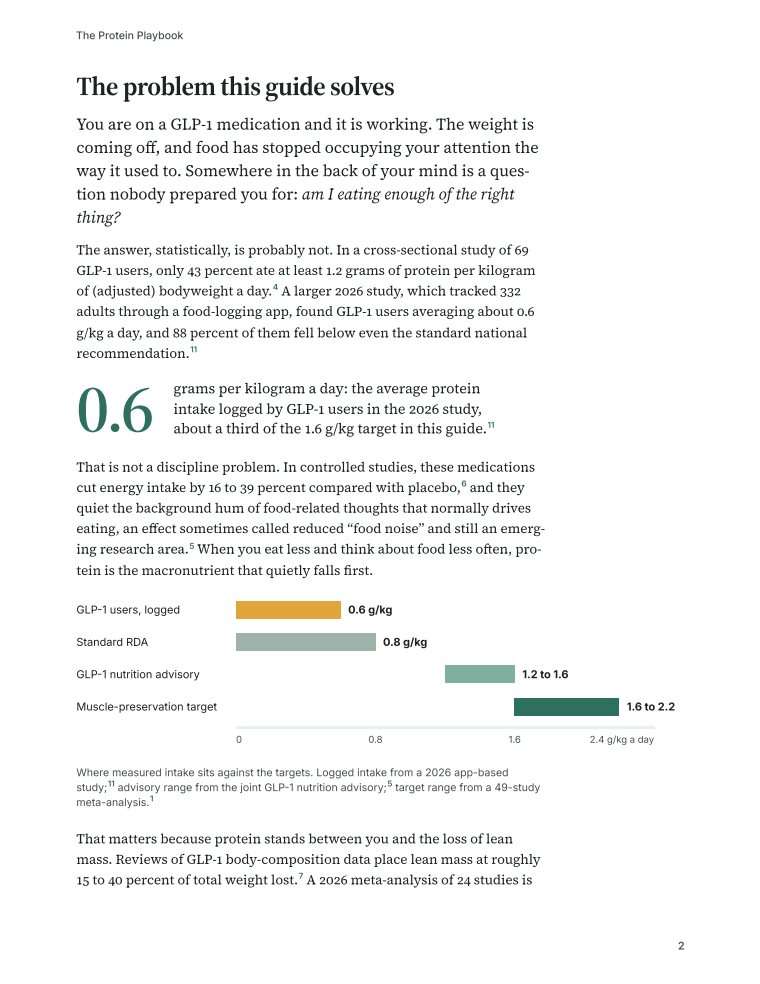
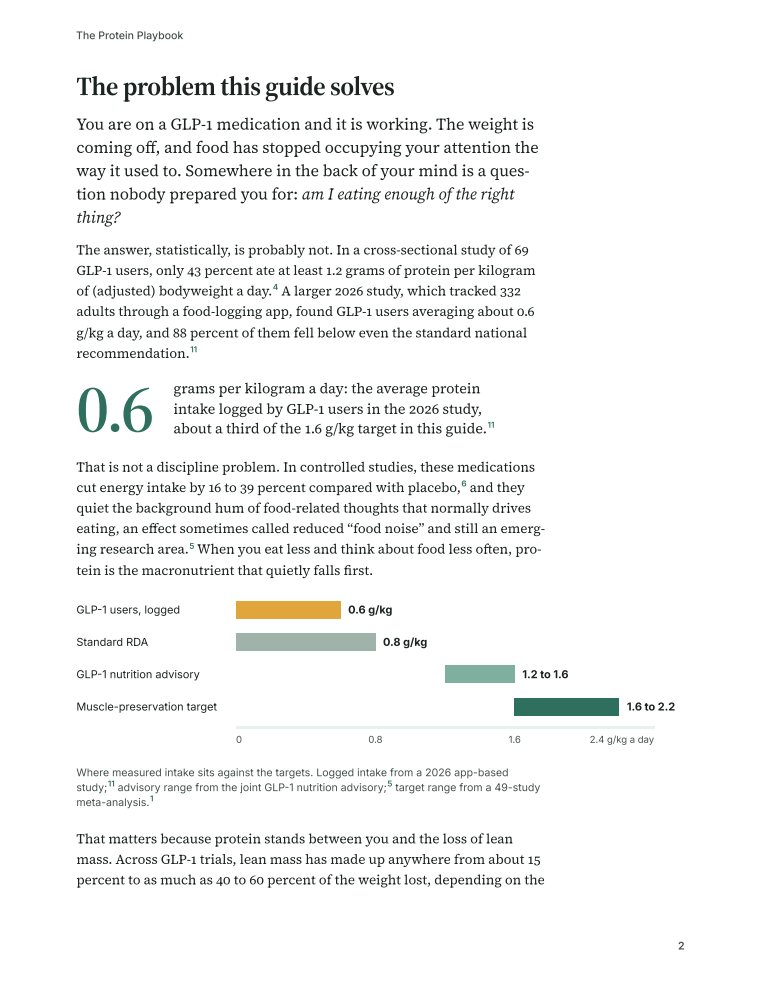
Edition 2 rollout: real covers and inside pages on every product page, handbook 33 pages and pack 78 pages across the site, measure and centring fixes

Changed region(s): [[0.0908, 0.8537, 0.7263, 0.9146]]

diff --git a/index.html b/index.html
@@ -138,7 +138,7 @@
       <div class="hero-trust">
         <span><svg width="18" height="18" viewBox="0 0 24 24" fill="none" stroke="currentColor" stroke-width="2.4"><path d="M20 6L9 17l-5-5"/></svg> 24 cited references</span>
         <span><svg width="18" height="18" viewBox="0 0 24 24" fill="none" stroke="currentColor" stroke-width="2.4"><path d="M20 6L9 17l-5-5"/></svg> Every claim cited</span>
-        <span><svg width="18" height="18" viewBox="0 0 24 24" fill="none" stroke="currentColor" stroke-width="2.4"><path d="M20 6L9 17l-5-5"/></svg> Instant 30-page PDF</span>
+        <span><svg width="18" height="18" viewBox="0 0 24 24" fill="none" stroke="currentColor" stroke-width="2.4"><path d="M20 6L9 17l-5-5"/></svg> Instant 33-page PDF</span>
       </div>
     </div>
     <div class="hero-visual">
@@ -193,7 +193,7 @@
 <section class="section features" id="inside">
   <div class="wrap center">
     <h2>What is in the handbook</h2>
-    <p class="lead">Thirty pages of specific, cited, do-this-now guidance covering medications, training, running, nutrition, and supplements, written for the reality of being on a GLP-1.</p>
+    <p class="lead">Thirty-three pages of specific, cited, do-this-now guidance covering medications, training, running, nutrition, and supplements, written for the reality of being on a GLP-1.</p>
     <div class="feature-grid" style="text-align:left">
       <div class="feature">
         <div class="feature-ico"><svg width="24" height="24" viewBox="0 0 24 24" fill="none" stroke="currentColor" stroke-width="2"><path d="M6 4v16M18 4v16M6 8h12M6 16h12"/></svg></div>
@@ -223,7 +223,7 @@
       <div class="feature">
         <div class="feature-ico"><svg width="24" height="24" viewBox="0 0 24 24" fill="none" stroke="currentColor" stroke-width="2"><path d="M4 19.5A2.5 2.5 0 016.5 17H20"/><path d="M6.5 2H20v20H6.5A2.5 2.5 0 014 19.5v-15A2.5 2.5 0 016.5 2z"/></svg></div>
         <h3>Every claim cited</h3>
-        <p>24 references to peer-reviewed studies and registered trials, each with a live link.</p>
+        <p>54 references to peer-reviewed studies and registered trials, each with a live link.</p>
       </div>
     </div>
   </div>
@@ -306,7 +306,7 @@
       <p class="lead">A chatbot will answer, but it summarizes one prompt at a time and can invent a citation as easily as a fact. This guide is the finished work.</p>
     </div>
     <ul class="why-list">
-      <li><svg width="22" height="22" viewBox="0 0 24 24" fill="none" stroke="currentColor" stroke-width="2.4"><path d="M20 6L9 17l-5-5"/></svg><div><strong>It synthesizes the evidence</strong> across 24 references into one coherent protocol, instead of summarizing whichever paper you happen to ask about.</div></li>
+      <li><svg width="22" height="22" viewBox="0 0 24 24" fill="none" stroke="currentColor" stroke-width="2.4"><path d="M20 6L9 17l-5-5"/></svg><div><strong>It synthesizes the evidence</strong> across 54 references into one coherent protocol, instead of summarizing whichever paper you happen to ask about.</div></li>
       <li><svg width="22" height="22" viewBox="0 0 24 24" fill="none" stroke="currentColor" stroke-width="2.4"><path d="M20 6L9 17l-5-5"/></svg><div><strong>Every recommendation is cited</strong> to a real, linked, peer-reviewed source you can check..</div></li>
       <li><svg width="22" height="22" viewBox="0 0 24 24" fill="none" stroke="currentColor" stroke-width="2.4"><path d="M20 6L9 17l-5-5"/></svg><div><strong>It is internally consistent.</strong> The protein target, the training plan, and the maintenance phase were written to work together, not assembled from separate chats.</div></li>
       <li><svg width="22" height="22" viewBox="0 0 24 24" fill="none" stroke="currentColor" stroke-width="2.4"><path d="M20 6L9 17l-5-5"/></svg><div><strong>It is written for GLP-1 reality:</strong> a suppressed appetite, nausea on dose increases, and the day you eventually come off the medication.</div></li>
@@ -420,8 +420,8 @@
       </div>
       <div class="price-body">
         <ul>
-          <li><svg width="20" height="20" viewBox="0 0 24 24" fill="none" stroke="currentColor" stroke-width="2.4"><path d="M20 6L9 17l-5-5"/></svg> The handbook plus four mini-guides, 60 pages in one download</li>
-          <li><svg width="20" height="20" viewBox="0 0 24 24" fill="none" stroke="currentColor" stroke-width="2.4"><path d="M20 6L9 17l-5-5"/></svg> The full 30-page handbook: training, protein, side effects, maintenance</li>
+          <li><svg width="20" height="20" viewBox="0 0 24 24" fill="none" stroke="currentColor" stroke-width="2.4"><path d="M20 6L9 17l-5-5"/></svg> The handbook plus four mini-guides, 78 pages in one download</li>
+          <li><svg width="20" height="20" viewBox="0 0 24 24" fill="none" stroke="currentColor" stroke-width="2.4"><path d="M20 6L9 17l-5-5"/></svg> The full 33-page handbook: training, protein, side effects, maintenance</li>
           <li><svg width="20" height="20" viewBox="0 0 24 24" fill="none" stroke="currentColor" stroke-width="2.4"><path d="M20 6L9 17l-5-5"/></svg> The Protein Playbook: exact daily target and a four-meal system</li>
           <li><svg width="20" height="20" viewBox="0 0 24 24" fill="none" stroke="currentColor" stroke-width="2.4"><path d="M20 6L9 17l-5-5"/></svg> Creatine on a GLP-1, The No-Gym Plan, and The GLP-1 Off-Ramp</li>
           <li><svg width="20" height="20" viewBox="0 0 24 24" fill="none" stroke="currentColor" stroke-width="2.4"><path d="M20 6L9 17l-5-5"/></svg> Every claim cited to real, linked studies</li>
@@ -439,11 +439,11 @@
       </div>
       <div class="price-body">
         <ul>
-          <li><svg width="20" height="20" viewBox="0 0 24 24" fill="none" stroke="currentColor" stroke-width="2.4"><path d="M20 6L9 17l-5-5"/></svg> 30-page fully-cited handbook, yours to keep</li>
+          <li><svg width="20" height="20" viewBox="0 0 24 24" fill="none" stroke="currentColor" stroke-width="2.4"><path d="M20 6L9 17l-5-5"/></svg> 33-page fully-cited handbook, yours to keep</li>
           <li><svg width="20" height="20" viewBox="0 0 24 24" fill="none" stroke="currentColor" stroke-width="2.4"><path d="M20 6L9 17l-5-5"/></svg> Two gym routines + a bodyweight-only program</li>
           <li><svg width="20" height="20" viewBox="0 0 24 24" fill="none" stroke="currentColor" stroke-width="2.4"><path d="M20 6L9 17l-5-5"/></svg> Protein targets, meal timing &amp; food tables</li>
           <li><svg width="20" height="20" viewBox="0 0 24 24" fill="none" stroke="currentColor" stroke-width="2.4"><path d="M20 6L9 17l-5-5"/></svg> Side-effect and maintenance-phase strategy</li>
-          <li><svg width="20" height="20" viewBox="0 0 24 24" fill="none" stroke="currentColor" stroke-width="2.4"><path d="M20 6L9 17l-5-5"/></svg> 24 references to real, linked studies</li>
+          <li><svg width="20" height="20" viewBox="0 0 24 24" fill="none" stroke="currentColor" stroke-width="2.4"><path d="M20 6L9 17l-5-5"/></svg> 54 references to real, linked studies</li>
         </ul>
         <button type="button" class="btn btn-primary btn-lg" data-checkout data-product="muscleonglp-guide">Buy now, instant download</button>
         <p id="checkout-status" class="checkout-status" role="status" aria-live="polite"></p>

diff --git a/learn/best-exercises-preserve-muscle-glp1/index.html b/learn/best-exercises-preserve-muscle-glp1/index.html
@@ -194,7 +194,7 @@
       <div class="article-cta">
         <p class="k">Go deeper</p>
         <h3>The full training system, with exact sets and reps</h3>
-        <p>This page covers the principles and the movements. The 30-page handbook turns them into two complete routines plus a bodyweight-only option, with exact sets, reps, and a twelve-week progression, a protein strategy built for a suppressed appetite, and how to keep training through side effects. Prefer to start with no equipment at all? The <a href="/guides/no-gym-plan/">$5 No-Gym Plan</a> is a bodyweight-only mini-guide.</p>
+        <p>This page covers the principles and the movements. The 33-page handbook turns them into two complete routines plus a bodyweight-only option, with exact sets, reps, and a twelve-week progression, a protein strategy built for a suppressed appetite, and how to keep training through side effects. Prefer to start with no equipment at all? The <a href="/guides/no-gym-plan/">$5 No-Gym Plan</a> is a bodyweight-only mini-guide.</p>
         <a class="btn btn-primary btn-lg" href="/#pricing">Get the full handbook &mdash; $19 &rarr;</a>
       </div>
 

diff --git a/learn/glp1-muscle-loss-women-over-50/index.html b/learn/glp1-muscle-loss-women-over-50/index.html
@@ -169,7 +169,7 @@
       <div class="article-cta">
         <p class="k">Go deeper</p>
         <h3>The complete, fully-cited protocol</h3>
-        <p>Our 30-page handbook turns the evidence on this page into an exact plan: two training routines plus a bodyweight-only option, a protein strategy built for a suppressed appetite, training through side effects, and the maintenance phase. Every claim is cited to the research.</p>
+        <p>Our 33-page handbook turns the evidence on this page into an exact plan: two training routines plus a bodyweight-only option, a protein strategy built for a suppressed appetite, training through side effects, and the maintenance phase. Every claim is cited to the research.</p>
         <a class="btn btn-primary btn-lg" href="/#pricing">See the handbook &mdash; $19 &rarr;</a>
         <p>Thinking about ever coming off the medication? The <a href="/guides/off-ramp/">GLP-1 Off-Ramp</a> covers keeping the muscle you built and limiting the regain for $5.</p>
       </div>

diff --git a/learn/signs-of-muscle-loss-glp1/index.html b/learn/signs-of-muscle-loss-glp1/index.html
@@ -172,7 +172,7 @@
       <div class="article-cta">
         <p class="k">The fix, in full</p>
         <h3>The complete, fully-cited protocol</h3>
-        <p>Our 30-page handbook turns these signs into an exact plan: how to track your strength, two training routines plus a bodyweight-only option, a protein strategy built for a suppressed appetite, and what to measure over time. Every claim is cited to the research.</p>
+        <p>Our 33-page handbook turns these signs into an exact plan: how to track your strength, two training routines plus a bodyweight-only option, a protein strategy built for a suppressed appetite, and what to measure over time. Every claim is cited to the research.</p>
         <a class="btn btn-primary btn-lg" href="/#pricing">Get the full handbook &mdash; $19 &rarr;</a>
         <p>Want just the food side first? The <a href="/guides/protein-playbook/">Protein Playbook</a> covers hitting your protein target on a suppressed appetite, free.</p>
       </div>

diff --git a/learn/ozempic-vs-mounjaro-vs-zepbound-muscle/index.html b/learn/ozempic-vs-mounjaro-vs-zepbound-muscle/index.html
@@ -183,7 +183,7 @@
         <div class="article-cta">
           <p class="k">Go deeper</p>
           <h3>The complete, fully-cited protocol for all four medications</h3>
-          <p>Our 30-page handbook covers semaglutide and tirzepatide (plus where retatrutide fits), injection basics and timing, and the exact muscle-preserving protocol: two training routines plus a bodyweight-only option, and a protein strategy built for a suppressed appetite. Every claim is cited to the research.</p>
+          <p>Our 33-page handbook covers semaglutide and tirzepatide (plus where retatrutide fits), injection basics and timing, and the exact muscle-preserving protocol: two training routines plus a bodyweight-only option, and a protein strategy built for a suppressed appetite. Every claim is cited to the research.</p>
           <a class="btn btn-primary btn-lg" href="/#pricing">Get the full handbook &mdash; $19 &rarr;</a>
         </div>
 

diff --git a/learn/beginner-resistance-training-glp1/index.html b/learn/beginner-resistance-training-glp1/index.html
@@ -191,7 +191,7 @@
       <div class="article-cta">
         <p class="k">Go deeper</p>
         <h3>The full training system, with exact sets and reps</h3>
-        <p>This page covers the starting structure. Our 30-page handbook turns it into two complete routines plus a bodyweight-only option, with exact sets, reps, and a twelve-week progression, a protein strategy built for a suppressed appetite, and how to keep training through side effects.</p>
+        <p>This page covers the starting structure. Our 33-page handbook turns it into two complete routines plus a bodyweight-only option, with exact sets, reps, and a twelve-week progression, a protein strategy built for a suppressed appetite, and how to keep training through side effects.</p>
         <a class="btn btn-primary btn-lg" href="/#pricing">Get the full handbook &mdash; $19 &rarr;</a>
       </div>
 

diff --git a/learn/glp1-micronutrients-vitamin-d-b12-iron/index.html b/learn/glp1-micronutrients-vitamin-d-b12-iron/index.html
@@ -180,7 +180,7 @@
       <div class="article-cta">
         <p class="k">Go deeper</p>
         <h3>The complete, fully-cited protocol</h3>
-        <p>Our 30-page handbook turns the evidence on this page into an exact plan: a protein and nutrient strategy built for a suppressed appetite, two training routines plus a bodyweight-only option, training through side effects, and the maintenance phase. Every claim is cited to the research.</p>
+        <p>Our 33-page handbook turns the evidence on this page into an exact plan: a protein and nutrient strategy built for a suppressed appetite, two training routines plus a bodyweight-only option, training through side effects, and the maintenance phase. Every claim is cited to the research.</p>
         <a class="btn btn-primary btn-lg" href="/#pricing">See the handbook &mdash; $19 &rarr;</a>
       </div>
 

diff --git a/learn/creatine-and-ozempic/index.html b/learn/creatine-and-ozempic/index.html
@@ -219,7 +219,7 @@
         <h3>The Creatine on a GLP-1 mini-guide</h3>
         <p>A short, fully-cited walkthrough for people on semaglutide or tirzepatide: the safety evidence in plain terms, what form and how much the studies actually used, how to read the scale bump, and where creatine sits behind training and protein. Five dollars.</p>
         <a class="btn btn-primary btn-lg" href="/guides/creatine-glp1/">Get the Creatine guide &mdash; $5 &rarr;</a>
-        <p class="article-cta-alt">Want the whole plan? The <a href="/#pricing">full 30-page handbook</a> covers protein, training, side effects, and maintenance for $19.</p>
+        <p class="article-cta-alt">Want the whole plan? The <a href="/#pricing">full 33-page handbook</a> covers protein, training, side effects, and maintenance for $19.</p>
       </div>
 
       <div class="article">

diff --git a/styles.css b/styles.css
@@ -760,3 +760,7 @@ main:has(.guide-hero) .finalcta, main:has(.guide-hero) .finalcta .guarantee { te
 main:has(.guide-hero) .finalcta .lead { margin-left: auto; }
 @media (max-width: 820px) { main:has(.guide-hero) .crumbs { display: none; } }
 main:has(.guide-hero) .evidence-stats li strong { display: block; font-family: var(--font-display); font-size: clamp(2.2rem, 3.6vw, 3rem); font-weight: 700; line-height: 1; letter-spacing: -0.02em; color: var(--accent-text); margin-bottom: 10px; }
+main:has(.guide-hero) .wrap.center > p, main:has(.guide-hero) .evidence-note { max-width: 68ch; }
+main:has(.guide-hero) .finalcta .wrap.center { text-align: center; }
+main:has(.guide-hero) .finalcta .wrap.center > * { margin-left: auto; margin-right: auto; }
+main:has(.guide-hero) .faq-list, main:has(.guide-hero) .wrap.center > .lead { max-width: 64ch; }

diff --git a/learn/cardio-vs-weights-glp1/index.html b/learn/cardio-vs-weights-glp1/index.html
@@ -186,7 +186,7 @@
       <div class="article-cta">
         <p class="k">Go deeper</p>
         <h3>The complete, fully-cited protocol</h3>
-        <p>Our 30-page handbook turns the evidence on this page into an exact plan: two training routines plus a bodyweight-only option, a protein strategy built for a suppressed appetite, training through side effects, and the maintenance phase. Every claim is cited to the research.</p>
+        <p>Our 33-page handbook turns the evidence on this page into an exact plan: two training routines plus a bodyweight-only option, a protein strategy built for a suppressed appetite, training through side effects, and the maintenance phase. Every claim is cited to the research.</p>
         <a class="btn btn-primary btn-lg" href="/#pricing">See the handbook &mdash; $19 &rarr;</a>
       </div>
 

diff --git a/learn/glp1-bone-density-fracture-risk/index.html b/learn/glp1-bone-density-fracture-risk/index.html
@@ -184,7 +184,7 @@
       <div class="article-cta">
         <p class="k">Go deeper</p>
         <h3>The complete, fully-cited protocol</h3>
-        <p>Our 30-page handbook turns the evidence on this page into an exact plan: two training routines plus a bodyweight-only option, a protein strategy built for a suppressed appetite, training through side effects, and the maintenance phase. Every claim is cited to the research.</p>
+        <p>Our 33-page handbook turns the evidence on this page into an exact plan: two training routines plus a bodyweight-only option, a protein strategy built for a suppressed appetite, training through side effects, and the maintenance phase. Every claim is cited to the research.</p>
         <a class="btn btn-primary btn-lg" href="/#pricing">See the handbook &mdash; $19 &rarr;</a>
       </div>
 

diff --git a/learn/glp1-knee-osteoarthritis-pain/index.html b/learn/glp1-knee-osteoarthritis-pain/index.html
@@ -187,7 +187,7 @@
       <div class="article-cta">
         <p class="k">Go deeper</p>
         <h3>The complete, fully-cited protocol</h3>
-        <p>Our 30-page handbook turns the evidence on this page into an exact plan: two training routines plus a bodyweight-only option, a protein strategy built for a suppressed appetite, training through side effects, and the maintenance phase. Every claim is cited to the research.</p>
+        <p>Our 33-page handbook turns the evidence on this page into an exact plan: two training routines plus a bodyweight-only option, a protein strategy built for a suppressed appetite, training through side effects, and the maintenance phase. Every claim is cited to the research.</p>
         <a class="btn btn-primary btn-lg" href="/#pricing">See the handbook &mdash; $19 &rarr;</a>
       </div>
 
